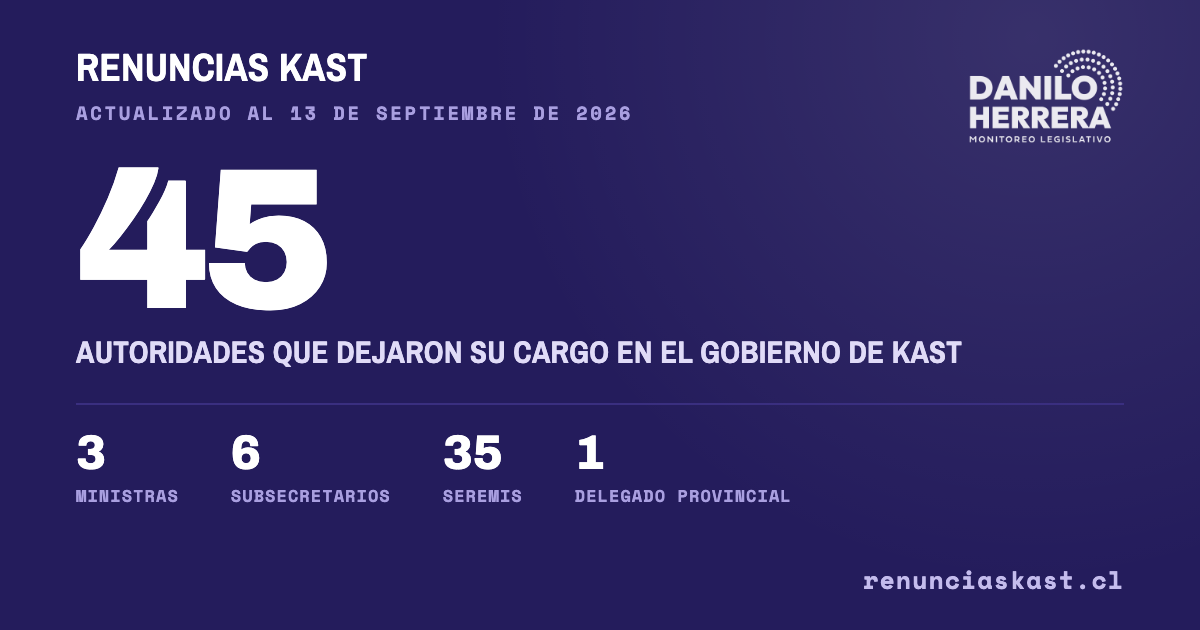
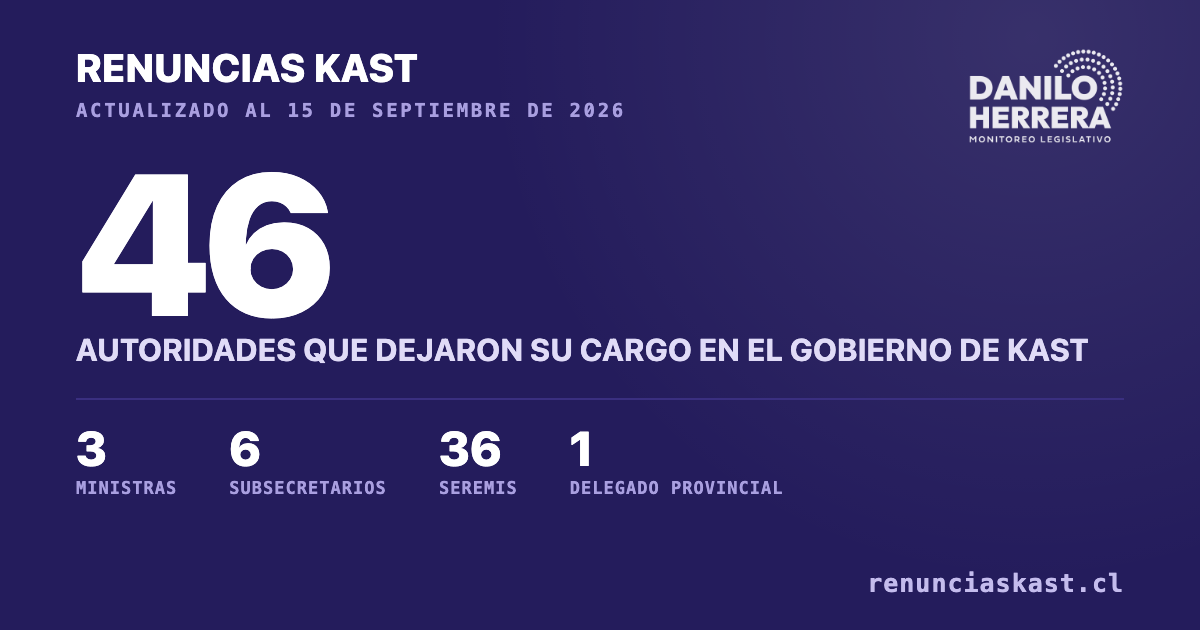
Agregar renuncia de Jorge Olivares (Seremi de Vivienda, Antofagasta)
Renuncia pedida por el ministro de Vivienda tras la reducción de más
de 5.000 viviendas comprometidas en el convenio habitacional
"Más Viviendas, Mejor Región". Actualiza total (46), seremis (36),
fecha del header, reloj de "sin cambios" (reinicia desde las 07:00
del 15 sep) e imagen de redes sociales.

diff --git a/index.html b/index.html
@@ -190,7 +190,7 @@
     </div>
     <div class="sh-meta">
       <div><b>Fuente</b> Prensa</div>
-      <div><b>Actualización</b> 13 sep 2026</div>
+      <div><b>Actualización</b> 15 sep 2026</div>
     </div>
   </div>
 </header>
@@ -199,13 +199,13 @@
 <header class="hero">
   <div class="wrap">
     <div class="tracker">
-      <div class="meta">Actualizado al 13 de septiembre de 2026</div>
-      <div class="big">45</div>
+      <div class="meta">Actualizado al 15 de septiembre de 2026</div>
+      <div class="big">46</div>
       <div class="cap">autoridades que dejaron su cargo<br class="mbr"> en el gobierno de José Antonio Kast</div>
       <div class="strip">
         <div><div class="sn">3</div><div class="sl">ministras</div></div>
         <div><div class="sn">6</div><div class="sl">subsecretarios</div></div>
-        <div><div class="sn">35</div><div class="sl">seremis</div></div>
+        <div><div class="sn">36</div><div class="sl">seremis</div></div>
         <div><div class="sn">1</div><div class="sl">delegado provincial</div></div>
         <div><div class="sn" id="avgDias">—</div><div class="sl"><span class="nowrap">días de gobierno</span><br class="mbr"> por salida</div></div>
       </div>
@@ -218,7 +218,7 @@
         <div class="ct-cell"><div class="ct-n" id="cMins">00</div><div class="ct-l">min</div></div>
         <div class="ct-cell"><div class="ct-n" id="cSecs">00</div><div class="ct-l">seg</div></div>
       </div>
-      <div class="ct-note"><span class="nowrap">Desde la renuncia del seremi de Vivienda de Tarapacá,</span><br class="mbr"> 3 sep 08:00</div>
+      <div class="ct-note"><span class="nowrap">Desde la renuncia del seremi de Vivienda de Antofagasta,</span><br class="mbr"> 15 sep 07:00</div>
     </div>
     <p class="method">Incluye renuncias, remociones, cambios de puesto y nombramientos que no llegaron a concretarse. Cada caso enlaza a una fuente de prensa.</p>
   </div>
@@ -354,6 +354,7 @@ const D = [
   {n:"Juan Pablo Rodríguez", tipo:"Subsecretario", sexo:"m", terr:"Nacional", min:"Hacienda", fecha:"23 jul", sk:723, jud:false, motivo:"Test de drogas", razon:"Removido tras dar positivo en test de drogas. Niega consumir y presentó un contraexamen negativo de la U. Católica", medio:"La Tercera", url:"https://www.latercera.com/politica/noticia/no-refleja-mi-realidad-exsubsecretario-de-hacienda-afirma-que-no-consume-drogas-y-atribuye-a-un-error-el-test-positivo-que-motivo-su-salida/"},
   {n:"Eduardo Leiva", tipo:"Seremi", terr:"Los Lagos", min:"Culturas", fecha:"22 jul", sk:722, jud:false, motivo:"Test de drogas", razon:"Renunció tras dar positivo en un examen de drogas. Niega consumir y presentó un contraexamen negativo de la U. de Chile", medio:"T13", url:"https://www.t13.cl/noticia/politica/exseremi-culturas-lagos-renuncio-tras-dar-positivo-examen-drogas-3-8-2026"},
   {n:"Marcelo Vergara", tipo:"Seremi", terr:"Arica y Parinacota", min:"Hacienda", fecha:"17 jul", sk:717, jud:false, motivo:"Test de drogas", razon:"Renuncia voluntaria, en medio de dudas por su test de drogas. Hacienda confirmó que dio positivo, pero se negó a entregar el informe completo", medio:"El Mostrador", url:"https://www.elmostrador.cl/aqui-arica/2026/09/01/hacienda-confirma-test-positivo-de-drogas-a-exseremi-republicano-pero-no-entrega-resultados/"},
+  {n:"Jorge Olivares", tipo:"Seremi", terr:"Antofagasta", min:"Vivienda", fecha:"14 sep", sk:914, jud:false, sexo:"m", motivo:"Cuestionamiento de gestión", razon:"Renuncia pedida por el ministro de Vivienda tras la reducción de más de 5.000 viviendas comprometidas en un convenio habitacional para la región", medio:"Timeline", url:"https://www.timeline.cl/ministro-de-vivienda-pide-renuncia-a-seremi-de-antofagasta-tras-polemica-por-reduccion-de-mas-de-5-mil-viviendas/"},
   {n:"Alonso Velásquez", tipo:"Seremi", terr:"Tarapacá", min:"Vivienda", fecha:"3 sep", sk:903, jud:false, sexo:"m", motivo:"No informadas", razon:"Renuncia voluntaria sin motivos detallados públicamente", medio:"Radio Paulina", url:"https://radiopaulina.cl/2026/09/03/seremi-de-vivienda-de-tarapaca-se-suma-a-la-lista-de-autoridades-renunciadas-en-lo-que-va-del-gobierno-de-kast/"},
   {n:"Patricio Löhr", tipo:"Seremi", terr:"Arica y Parinacota", min:"Transportes", fecha:"1 sep", sk:901, jud:false, sexo:"m", motivo:"Mal uso de recursos públicos", razon:"Renuncia pedida por el Gobierno tras denuncia de la DGAC por presunta presión a una funcionaria para favorecer el ingreso de su empresa privada al aeropuerto Chacalluta", medio:"El Mostrador", url:"https://www.elmostrador.cl/aqui-arica/2026/09/01/hacienda-confirma-test-positivo-de-drogas-a-exseremi-republicano-pero-no-entrega-resultados/"},
   {n:"Jorge Heiden", tipo:"Seremi", terr:"Arica y Parinacota", min:"Agricultura", fecha:"25 jun", sk:625, jud:false, motivo:"Test de drogas", razon:"Renunció tras dar positivo en test de drogas", medio:"El Dínamo", url:"https://www.eldinamo.cl/politica/2026/07/25/renuncia-de-seremi-extiende-la-seguidilla-de-bajas-del-gobierno/"},
@@ -463,7 +464,7 @@ render();
 // "UN CAMBIO CADA X DÍAS" y "SIN CAMBIOS" — ambos en vivo, recalculados cada segundo contra la hora actual.
 // Actualizar ÚLTIMO_CAMBIO (fecha y hora) cada vez que se agregue una salida nueva a D.
 const INICIO_GOBIERNO=new Date(2026,2,11); // 11 mar 2026, asunción del gobierno
-const ULTIMO_CAMBIO=new Date(2026,8,3,8,0,0); // 3 sep 2026, 08:00 — renuncia seremi de Vivienda, Tarapacá
+const ULTIMO_CAMBIO=new Date(2026,8,15,7,0,0); // 15 sep 2026, 07:00 — renuncia seremi de Vivienda, Antofagasta
 const totalCambios=D.filter(d=>d.sk>0).length;
 function tickCounter(){
   const now=new Date();
